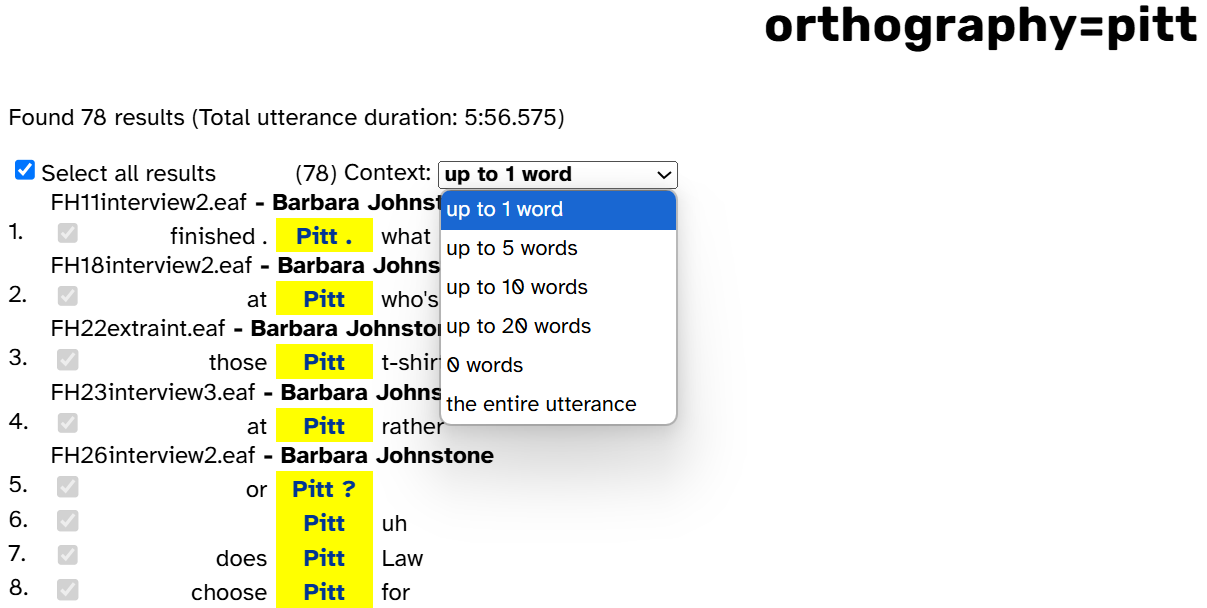
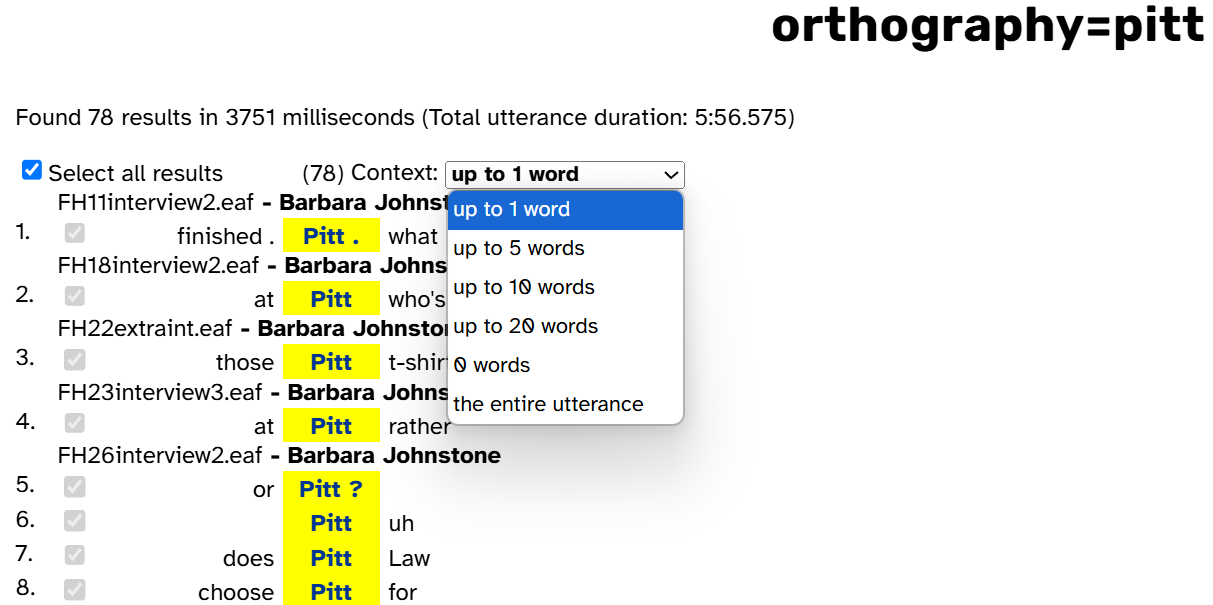
Bump version to 0.3.1

diff --git a/_versions/0.3.1.md b/_versions/0.3.1.md
@@ -1,0 +1,64 @@
+---
+version: 0.3.1
+date: 6 Jun 2025
+labbcat_version: 20250430.1502
+apls_ui_commit: 3253541
+upstream_ui_commit: 5da4b06
+stats:
+  same_as: 0.2.2
+---
+
+This is a "preview" version of APLS.
+We are still adding new transcripts and refining the UI, so the data is subject to change in minor ways.
+
+
+#### User interface changes
+{:.no_toc}
+
+- The <span class="apls-page">Search results</span> page [now includes information]({{ '/doc/user-interface#matches-headline' | relative_url }}) about how long it took APLS to retrieve the matches for that search. This is useful for benchmarking APLS's performance and determining [whether it's running slower than usual]({{ '/doc/troubleshooting#apls-is-slow' | relative_url }}).
+
+
+#### Layer data updates
+{:.no_toc}
+
+Due to suspected duplicate annotations, all CELEX-based layers were regenerated: <span class="layer">frequency_from_celex</span>, <span class="layer">lemma</span>, and <span class="layer">morphemes</span>.
+This revealed duplicates in the first two layers, with the vast majority in two interviews (CB10interview2.eaf and CB10interview5.eaf).
+The changes are summarized below (note that all three layers allow [vertical peers]({{ '/doc/layer-typology#vertical-peers' | relative_url }}), so their annotation counts are greater than <span class="layer">orthography</span>).
+
+<table>
+  <thead>
+    <tr>
+      <th rowspan="2">Layer</th>
+      <th colspan="2"># annotations</th>
+    </tr>
+    <tr>
+      <th style="border-left: 1px solid #eeebee;">Previous</th>
+      <th>Current</th>
+    </tr>
+  </thead>
+  <tbody>
+    <tr>
+      <td><span class="layer">word</span></td>
+      <td colspan="2">435,653</td>
+    </tr>
+    <tr>
+      <td><span class="layer">orthography</span></td>
+      <td colspan="2">425,769</td>
+    </tr>
+    <tr>
+      <td><span class="layer">frequency_from_celex</span></td>
+      <td>745,211</td>
+      <td>724,032</td>
+    </tr>
+    <tr>
+      <td><span class="layer">lemma</span></td>
+      <td>445,332</td>
+      <td>432,601</td>
+    </tr>
+    <tr>
+      <td><span class="layer">morphemes</span></td>
+      <td>454,433</td>
+      <td>454,433</td>
+    </tr>
+  </tbody>
+</table>

diff --git a/doc/about/user-interface.md b/doc/about/user-interface.md
@@ -3,7 +3,7 @@ title: User interface
 permalink: /doc/user-interface
 parent: About APLS
 nav_order: 35
-last_modified_date: 2025-05-27T16:16:13-04:00
+last_modified_date: 2025-06-09T13:11:31-04:00
 ---
 
 # {{ page.title }}
@@ -198,6 +198,8 @@ The comparison images in this section come from the [HD05interview2.eaf](https:/
   - **Enforcing data best practices**: There are a handful of columns that should always be included in an exported CSV because they provide a "paper trail" that can help contextualize the exported data well into the future. But new users who don't know what (e.g.) _Match ID_ is for might think it's optional and regret losing the "paper trail" later. (This comes directly from Dan's experience!) Now, these columns are required (selected by default and can't be deselected).
   - **More consistent**: Where possible, checkboxes have been relabeled to match column names in the exported CSV.
   - **Improved layer picker**: See [above](#layer-picker-transcripts).
+- **Performance information**: The page now includes information about how long it took APLS to retrieve the matches for that search. This is useful for benchmarking APLS's performance and determining [whether it's running slower than usual]({{ '/doc/troubleshooting#apls-is-slow' | relative_url }}).
+  {% include compare-ui.html file="matches/headline" caption='The top of the <span class="apls-page">Search results</span> page (showing a search for `pitt` on the orthography layer)' %}
 
 
 ## <span class="apls-page">Transcripts</span> and <span class="apls-page">Participants</span> pages
